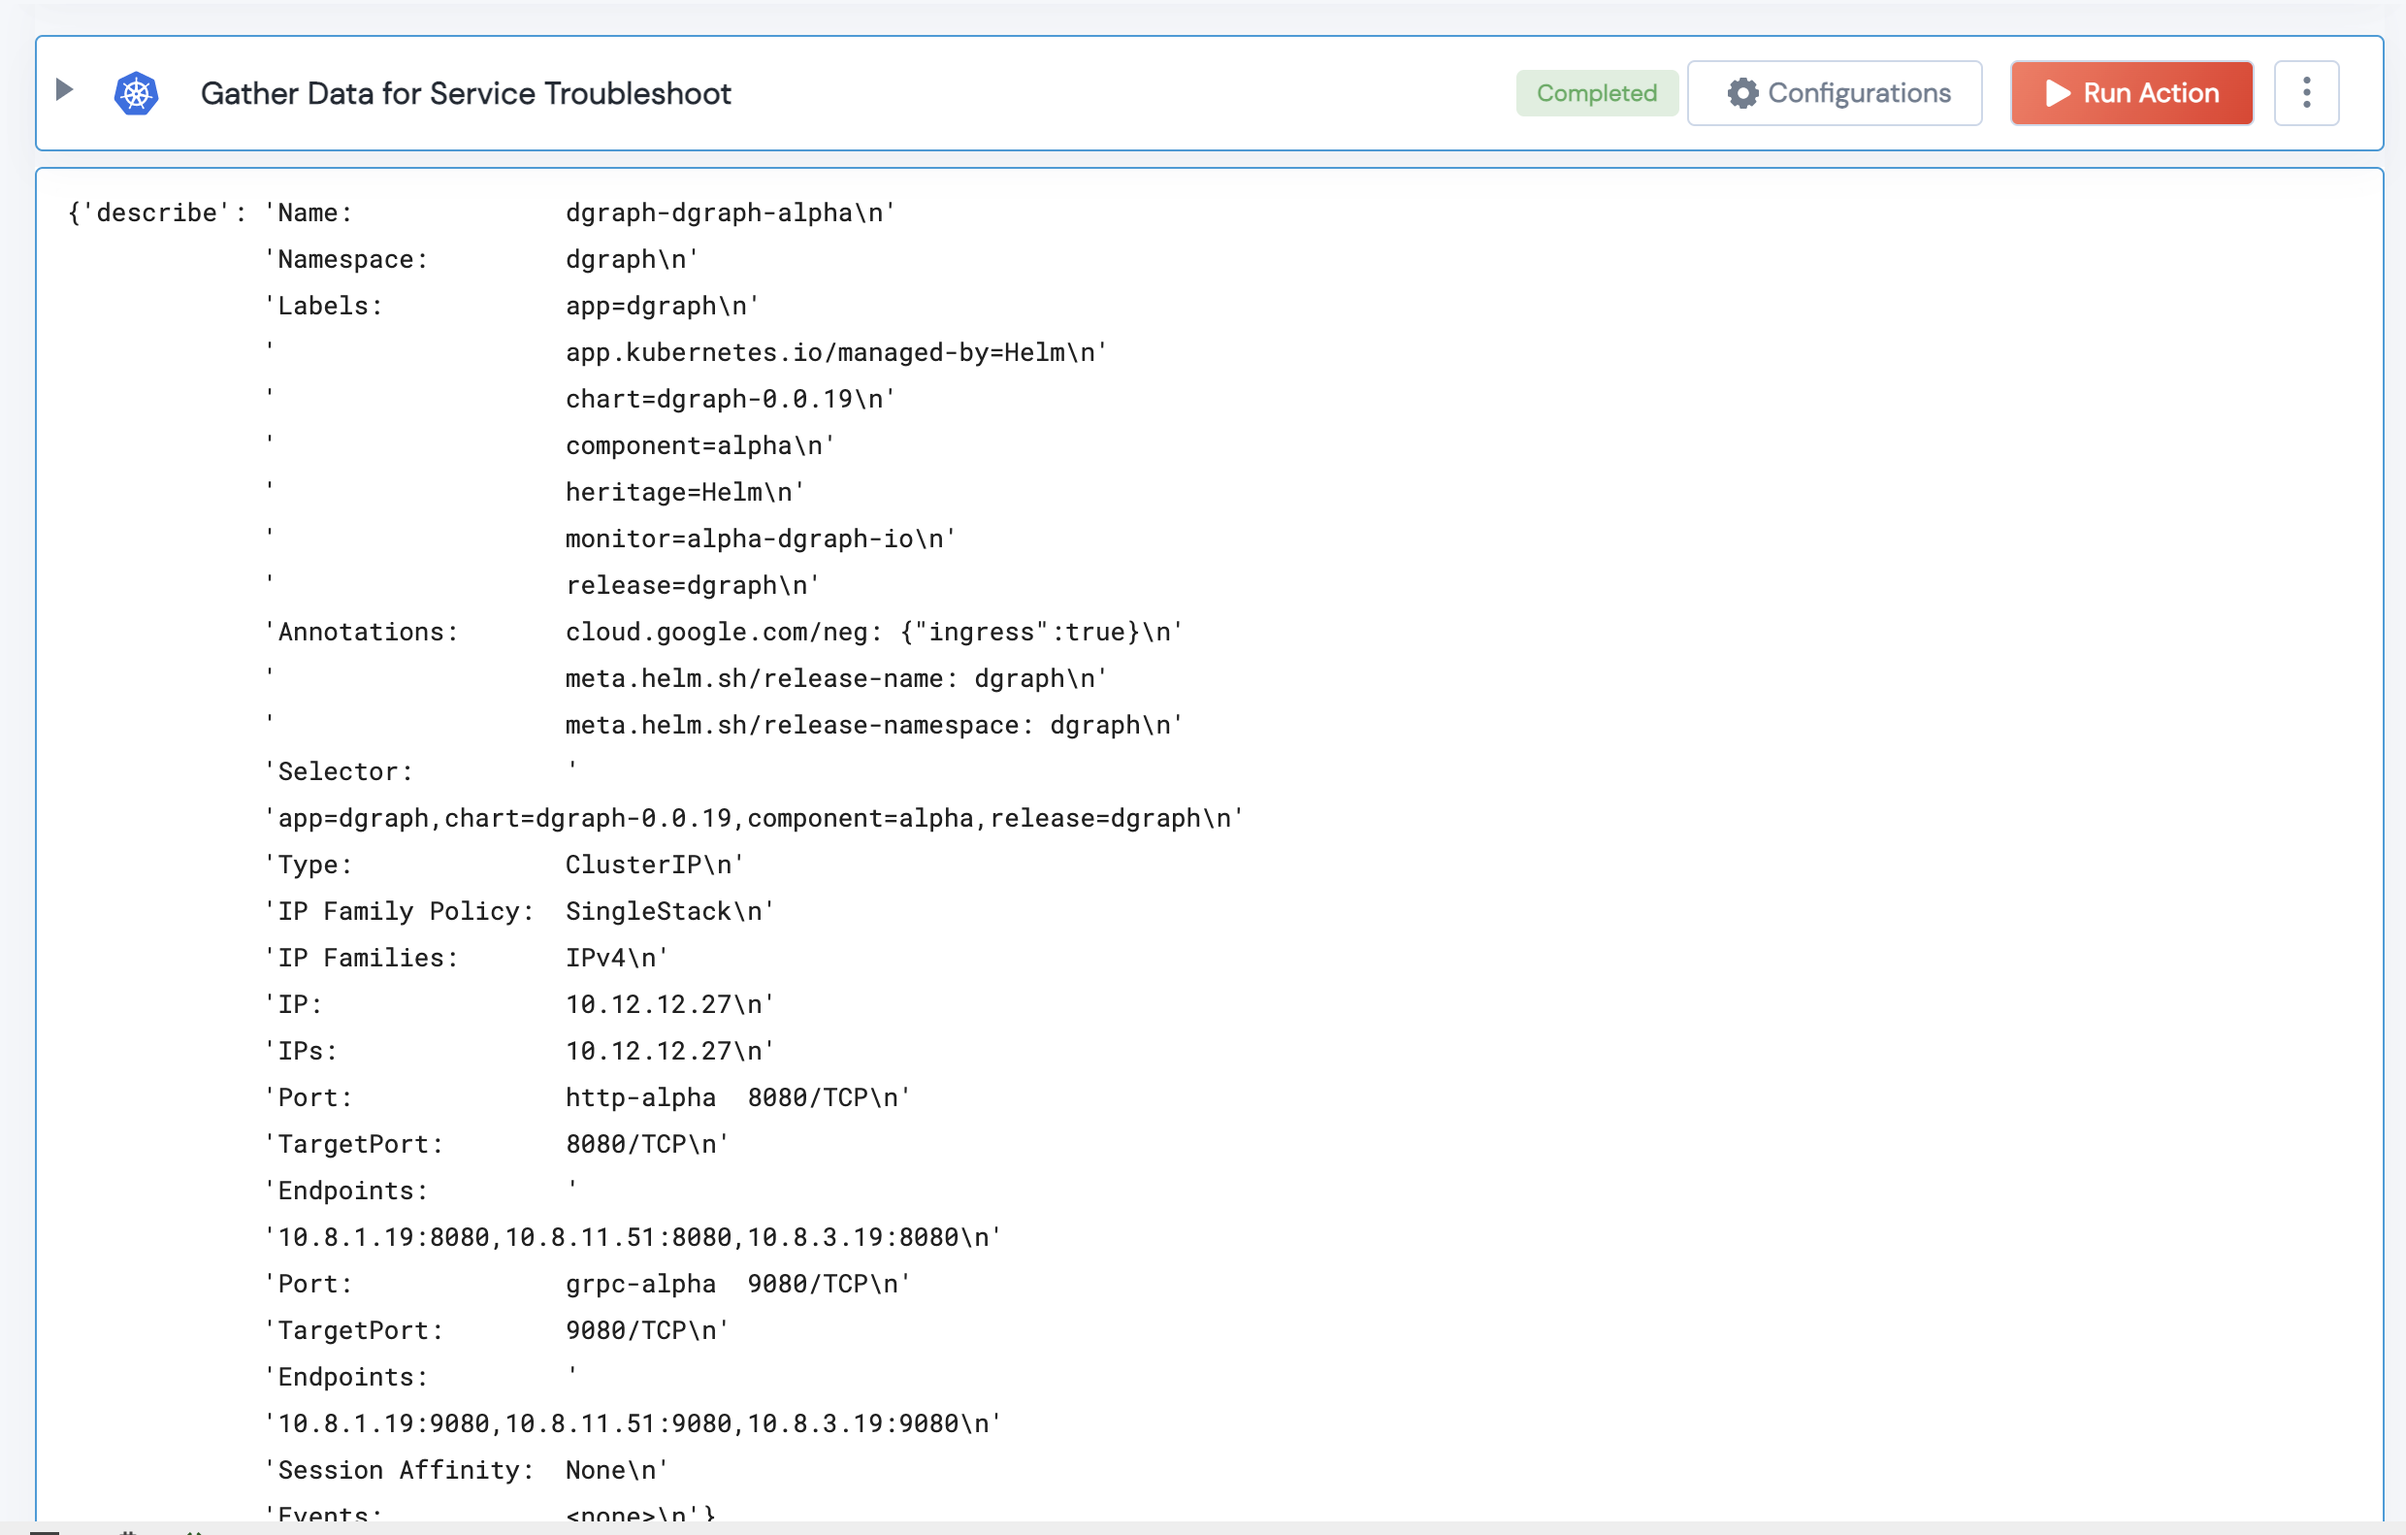
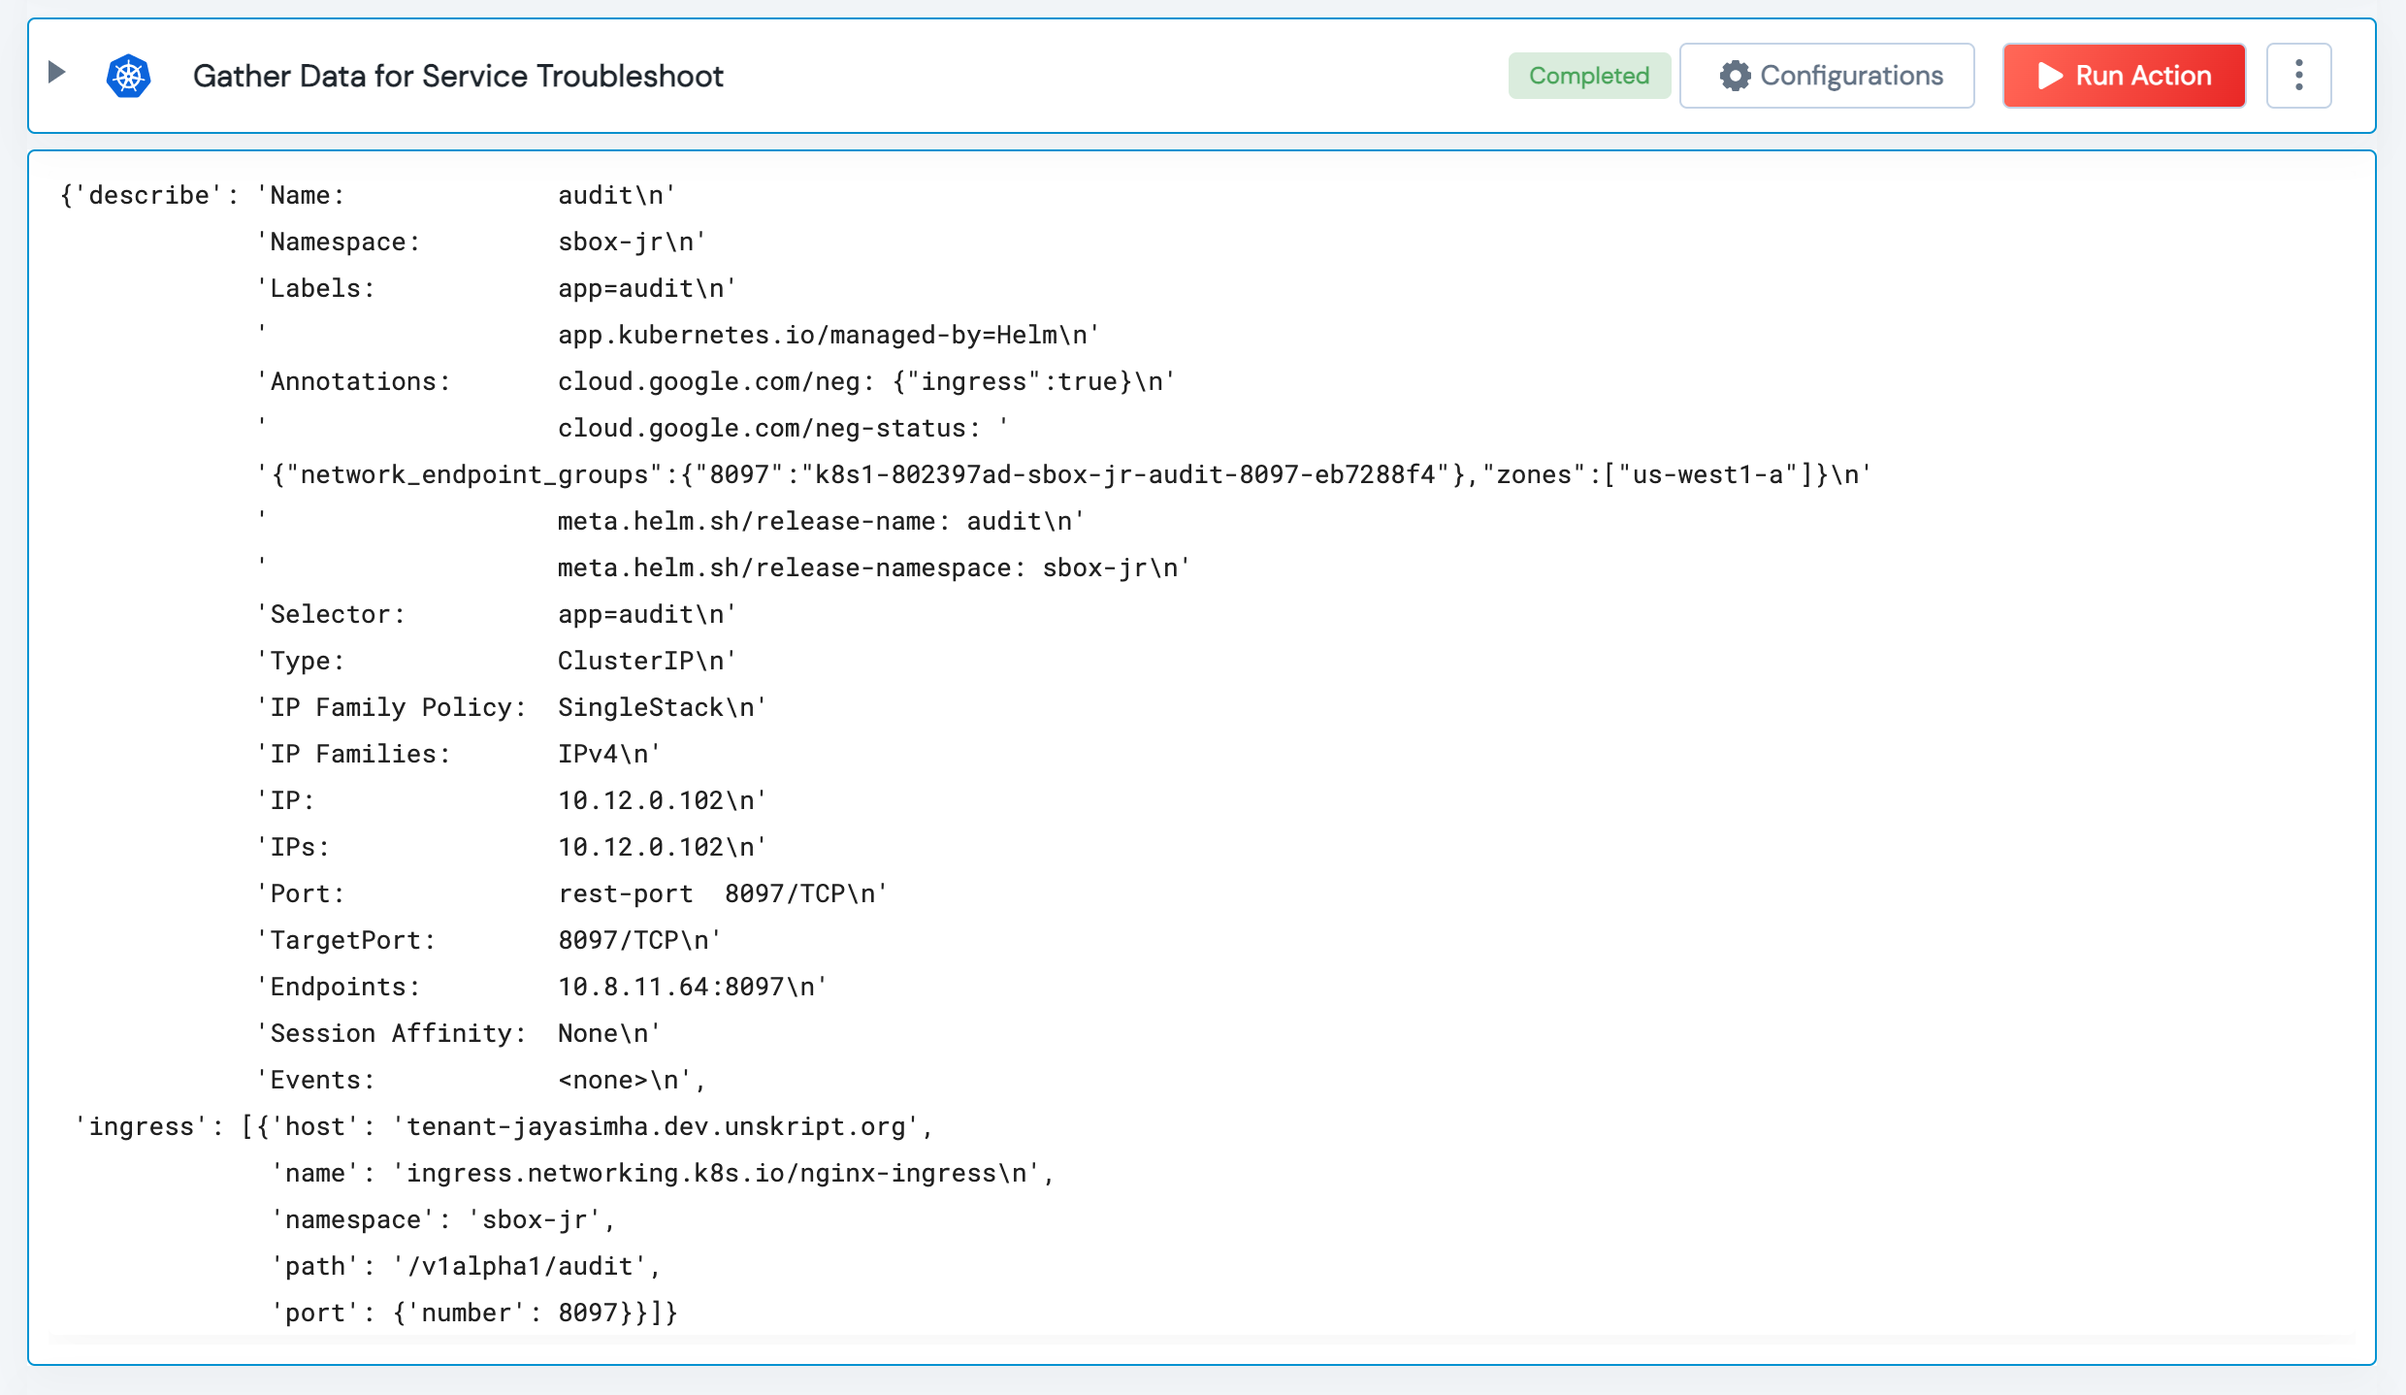
More PR Comments

diff --git a/Kubernetes/legos/k8s_gather_data_for_service_troubleshoot/k8s_gather_data_for_service_troubleshoot.py b/Kubernetes/legos/k8s_gather_data_for_service_troubleshoot/k8s_gather_data_for_service_troubleshoot.py
@@ -2,11 +2,12 @@
 # Copyright (c) 2023 unSkript.com
 # All rights reserved.
 #
+import pprint
+import json
 
 from pydantic import BaseModel, Field
 from typing import Optional, Tuple
 from kubernetes import client
-import pprint
 
 class InputSchema(BaseModel):
     service_name: str = Field(
@@ -47,11 +48,37 @@ def k8s_gather_data_for_service_troubleshoot(handle, servicename: str, namespace
     retval = {}
     if not describe_output.stderr:
         retval['describe'] = describe_output.stdout 
-    
-    ingress_rules_cmd = f'kubectl describe ingress -n {namespace}'
+
+    # To Get the Ingress rule, we first find out the name of the ingress
+    # Find out the ingress rules in the given namespace, find out the
+    # Matching rule in the ingress that matches the service name and append it
+    # to the `ingress` key.
+    rule_name = ''
+    ingress_rules_for_service = []
+    ingress_rule_name_cmd = f"kubectl get ingress -n {namespace} -o name" 
+    ingress_rule_name_output = handle.run_native_cmd(ingress_rule_name_cmd)
+    if not ingress_rule_name_output.stderr:
+        rule_name = ingress_rule_name_output.stdout
+        
+    ingress_rules_cmd = f"kubectl get ingress -n {namespace}" + ' -o jsonpath="{.items[*].spec.rules}"'
     ingress_rules_output = handle.run_native_cmd(ingress_rules_cmd)
     if not ingress_rules_output.stderr:
-        retval['ingress_rules'] = ingress_rules_output.stdout
-        
+        rules = json.loads(ingress_rules_output.stdout)
+        for r in rules:
+            h = r.get('host')
+            for s_p in r.get('http').get('paths'):
+                if s_p.get('backend').get('service').get('name') == servicename:
+                    ingress_rules_for_service.append([h, s_p.get('backend').get('service').get('port'), s_p.get('path')])
+    
+    if ingress_rules_for_service:
+        retval['ingress'] = []
+        for ir in ingress_rules_for_service:
+            if len(ir) >= 3:
+                retval['ingress'].append({'name': rule_name, 
+                            'namespace': namespace, 
+                            'host': ir[0],
+                            'port': ir[1],
+                            'path': ir[-1]})
+   
     
     return retval
